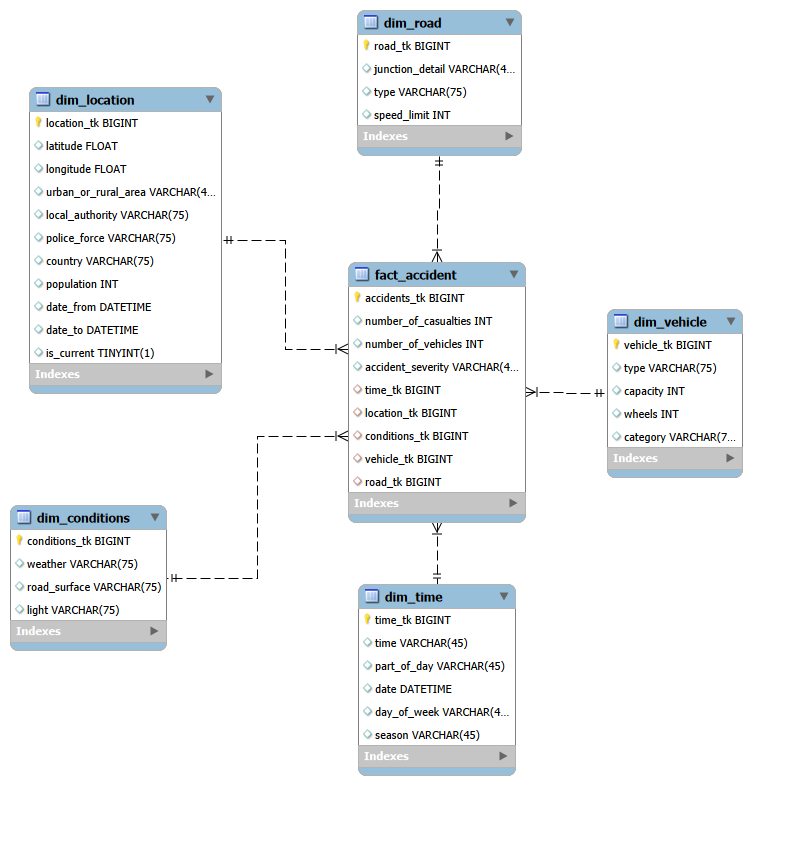
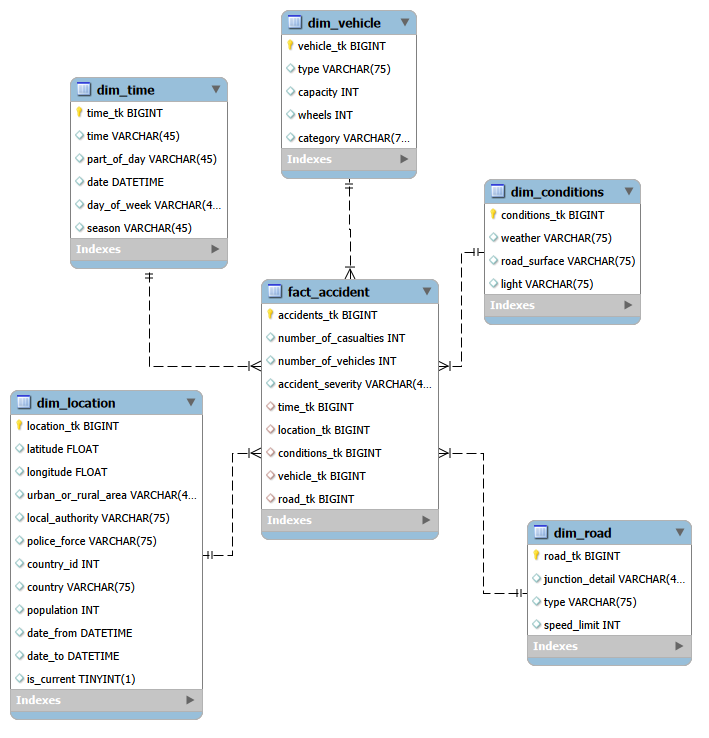
commit

diff --git a/checkpoint_3_dimentional/generate_star_shema.py b/checkpoint_3_dimentional/generate_star_shema.py
@@ -34,6 +34,7 @@ class DimLocation(Base):
     urban_or_rural_area = Column(String(45))
     local_authority= Column(String(75))
     police_force= Column(String(75))
+    country_id= Column(Integer, index=True)
     country= Column(String(75))
     population= Column(Integer)
 
